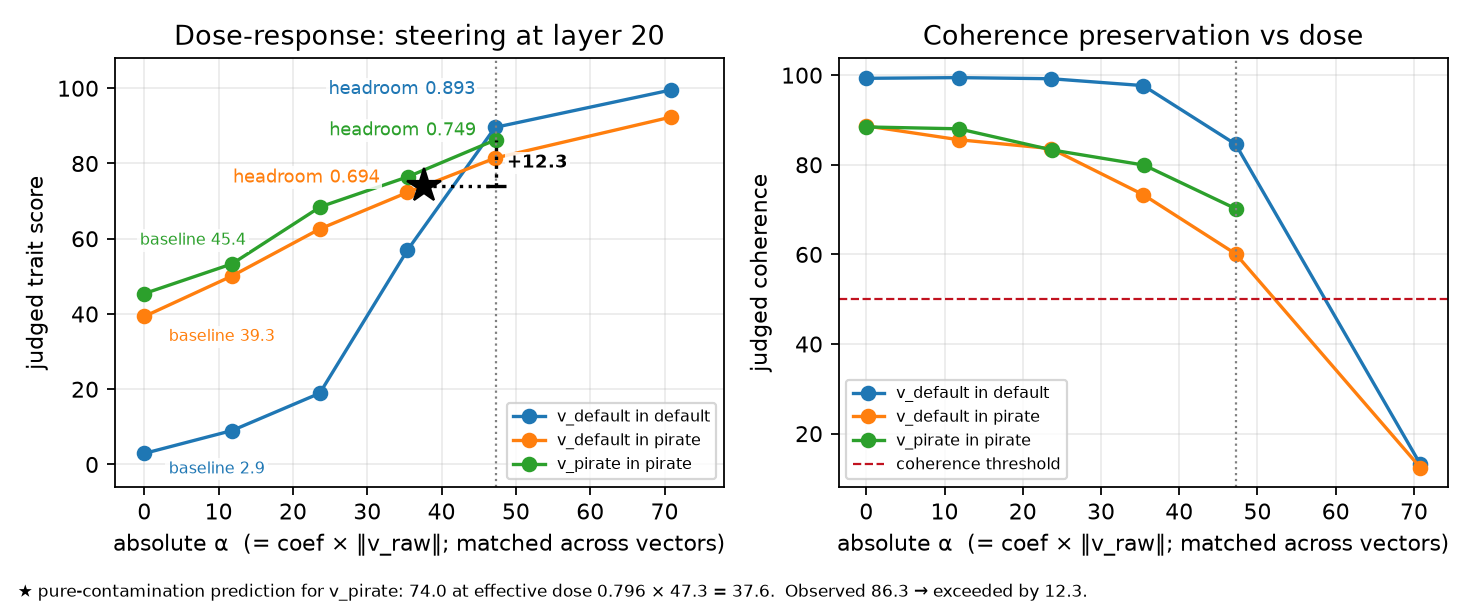
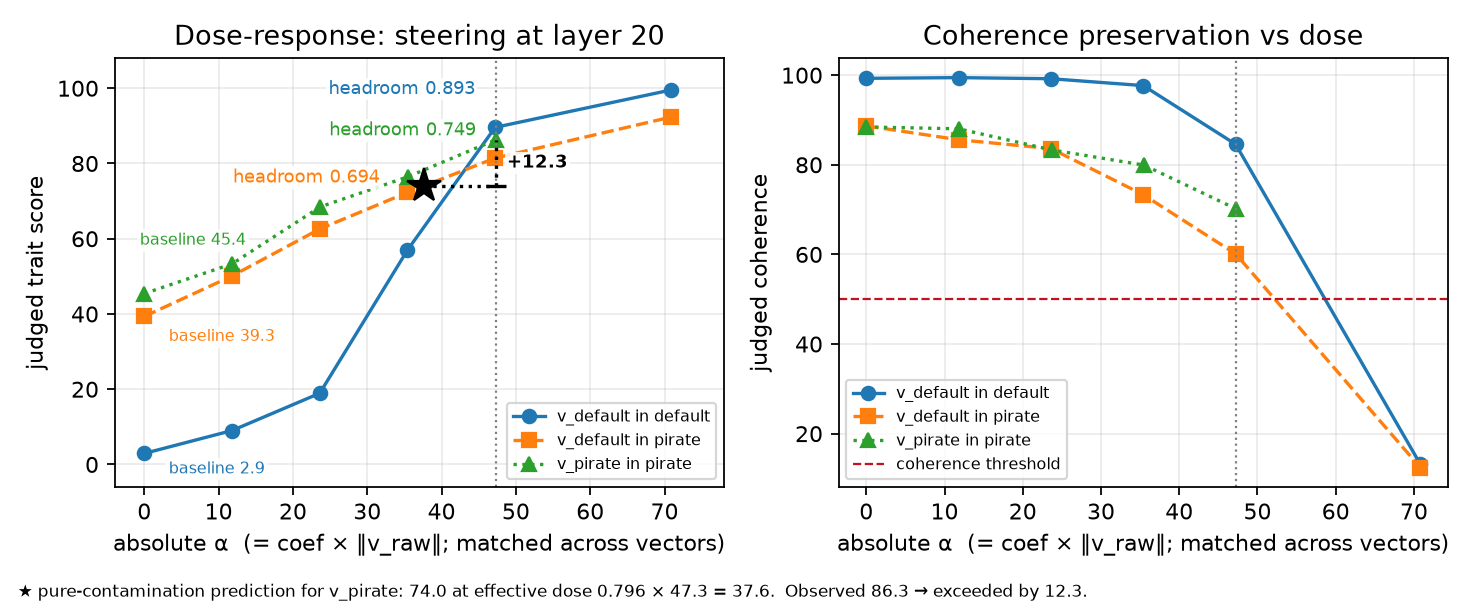
figures: distinguish steering sweeps without colour
Give the three steering sweeps distinct markers (o, s, ^) and line
styles (solid, dashed, dotted) in addition to colour, so the curves
stay readable in greyscale and with colour-vision deficiency.
Regenerated from the committed steering reports; no data changed.

diff --git a/src/plots.py b/src/plots.py
@@ -238,6 +238,9 @@ def dose_response(steer_dirs, out):
     """Dose-response figure. x is ABSOLUTE alpha so the
     sweeps are comparable across vectors of different norms (config NORM TRAP)."""
     A_VERDICT = 47.3            # the matched dose the verdict is read at
+    # marker + line style per sweep, so the three curves stay distinguishable
+    # in greyscale and for colour-vision deficiency; colour alone is not enough
+    STYLES = [("o", "-"), ("s", "--"), ("^", ":")]
     PRED, OBS = 74.0, 86.3      # pure-contamination prediction vs observed, at A_VERDICT
 
     fig, ax = plt.subplots(1, 2, figsize=(9.2, 3.8))
@@ -252,9 +255,10 @@ def dose_response(steer_dirs, out):
         alphas = [c * norm for c in coefs]
         label = f"{meta.get('vector_key', 'v_default')} in {meta.get('persona', sd.name)}"
         trait = [rep[str(c)]["trait_mean"] for c in coefs]
-        line, = ax[0].plot(alphas, trait, "o-", label=label)
-        ax[1].plot(alphas, [rep[str(c)]["coherence_mean"] for c in coefs], "o-",
-                   color=line.get_color(), label=label)
+        mk, ls = STYLES[i % len(STYLES)]
+        line, = ax[0].plot(alphas, trait, marker=mk, ls=ls, label=label)
+        ax[1].plot(alphas, [rep[str(c)]["coherence_mean"] for c in coefs],
+                   marker=mk, ls=ls, color=line.get_color(), label=label)
         # headroom labels anchored just LEFT of the verdict line, beside their own points
         top = max(range(len(alphas)), key=lambda i: alphas[i] if alphas[i] <= 48 else -1)
         hr.append((alphas[top], trait[top], rep[str(coefs[top])]["headroom"], line.get_color()))
